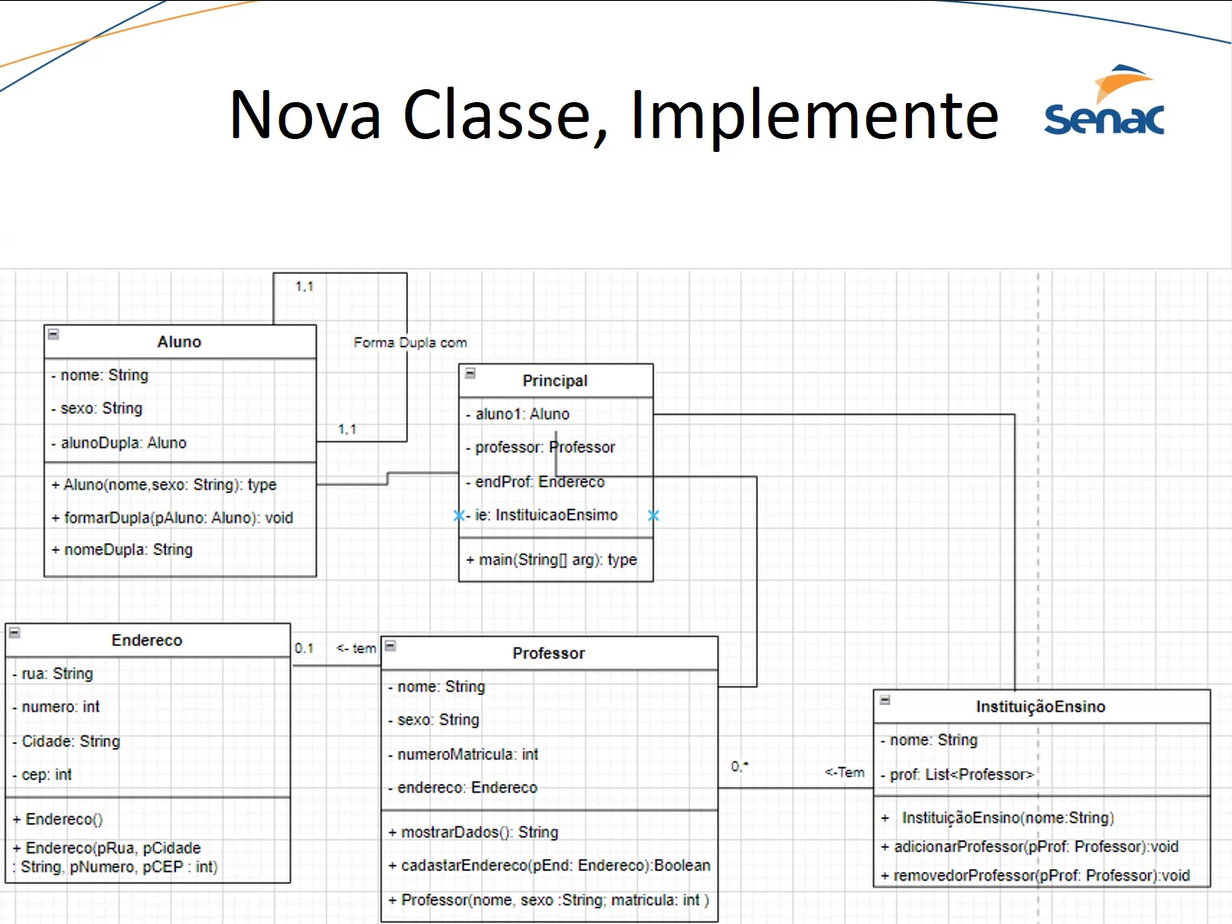
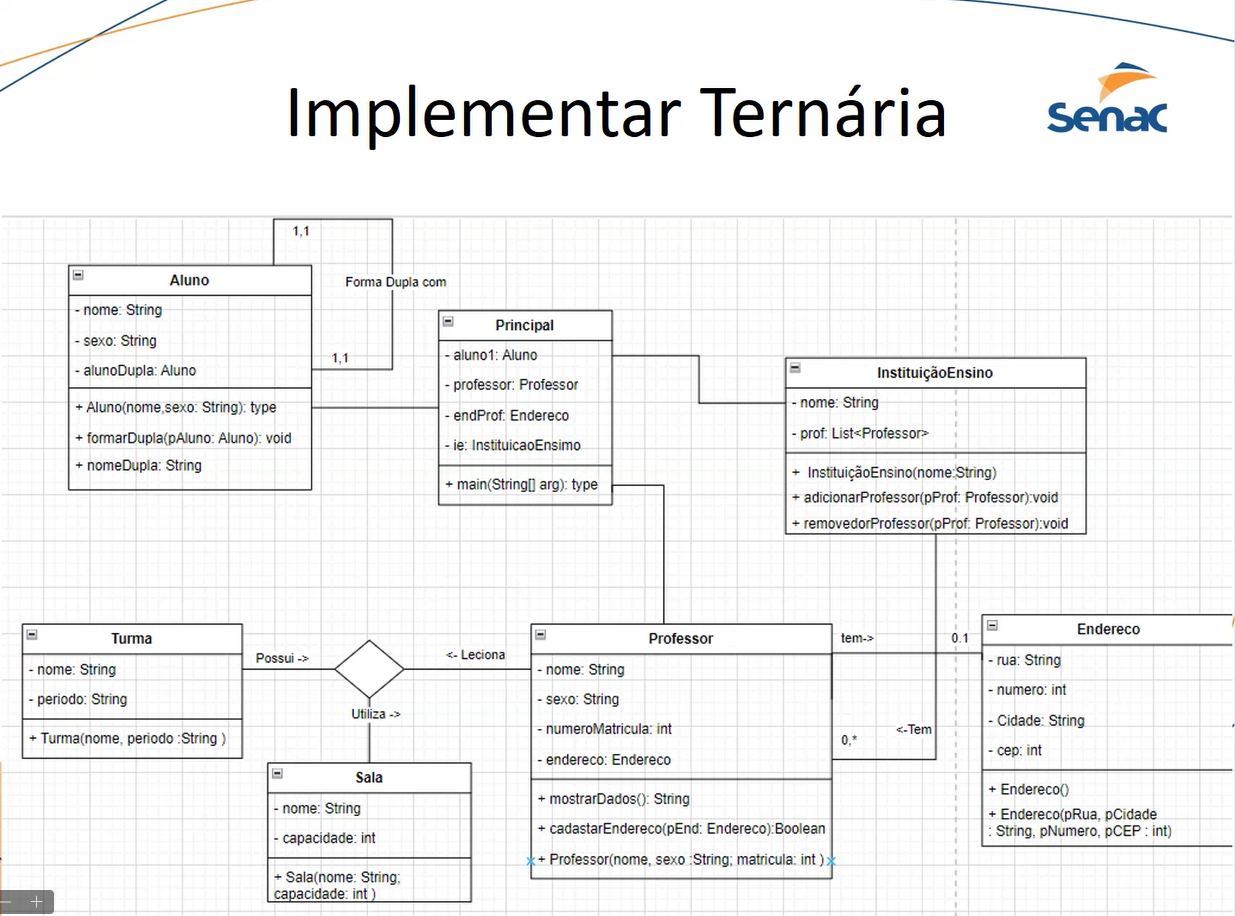
implementado novas classes ternária

diff --git a/atividade/Services/ProfessorService.cs b/atividade/Services/ProfessorService.cs
@@ -5,27 +5,29 @@ internal class ProfessorService
 {
     public static ProfessorModel Cadastrar()
     {
-        var nome = ConsoleExtension.WriteAndRead("Nome");
-        var sexo = ConsoleExtension.WriteAndRead("Sexo");
-        var numeroMatricula = int.Parse(ConsoleExtension.WriteAndRead("Numero da matricula"));
+        string nome = ConsoleExtension.WriteAndRead("Nome");
+        string sexo = ConsoleExtension.WriteAndRead("Sexo");
+        int numeroMatricula = int.Parse(ConsoleExtension.WriteAndRead("Numero da matricula"));
 
-        var option = ConsoleExtension.WriteAndRead("Deseja cadastrar o endereço?\n 1 - SIM\n 2 - NÃO");
+        string option = ConsoleExtension.WriteAndRead("Deseja cadastrar o endereço?\n 1 - SIM\n 2 - NÃO");
 
         ProfessorModel professor = new(nome, sexo, numeroMatricula);
 
         if (option == "1")
+        {
             CadastrarEndereco(professor);
+        }
 
         return professor;
     }
 
     private static void CadastrarEndereco(ProfessorModel professor)
     {
-        var rua = ConsoleExtension.WriteAndRead("rua");
-        var numero = int.Parse(ConsoleExtension.WriteAndRead("numero"));
-        var cidade = ConsoleExtension.WriteAndRead("cidade");
-        var cep = ConsoleExtension.WriteAndRead("CEP");
+        string rua = ConsoleExtension.WriteAndRead("rua");
+        int numero = int.Parse(ConsoleExtension.WriteAndRead("numero"));
+        string cidade = ConsoleExtension.WriteAndRead("cidade");
+        string cep = ConsoleExtension.WriteAndRead("CEP");
 
-        professor.CadastrarEndereco(new EnderecoModel(rua, numero, cidade, cep));
+        _ = professor.CadastrarEndereco(new EnderecoModel(rua, numero, cidade, cep));
     }
 }

diff --git a/atividade/Services/AlunoService.cs b/atividade/Services/AlunoService.cs
@@ -7,13 +7,15 @@ internal class AlunoService
     {
         do
         {
-            var nome = ConsoleExtension.WriteAndRead("Nome");
-            var sexo = ConsoleExtension.WriteAndRead("Sexo");
+            string nome = ConsoleExtension.WriteAndRead("Nome");
+            string sexo = ConsoleExtension.WriteAndRead("Sexo");
             AlunoModel aluno = new(nome, sexo);
 
-            var result = FormarDupla(aluno, alunosCadastrados);
+            bool result = FormarDupla(aluno, alunosCadastrados);
             if (result)
+            {
                 return aluno;
+            }
 
             ConsoleExtension.Write("Dupla não é permitida, tente novamente", ConsoleColor.Yellow);
         } while (true);
@@ -21,11 +23,11 @@ internal class AlunoService
 
     private static bool FormarDupla(AlunoModel alunoPrincipal, List<AlunoModel> alunosCadastrados)
     {
-        var nome = ConsoleExtension.WriteAndRead("Nome da dupla");
-        var sexo = ConsoleExtension.WriteAndRead("Sexo da dupla");
+        string nome = ConsoleExtension.WriteAndRead("Nome da dupla");
+        string sexo = ConsoleExtension.WriteAndRead("Sexo da dupla");
         AlunoModel aluno = new(nome, sexo);
 
-        var duplaFormada = alunosCadastrados.Find(x => x.AlunoDupla != null && x.AlunoDupla.Nome == nome);
+        AlunoModel? duplaFormada = alunosCadastrados.Find(x => x.AlunoDupla != null && x.AlunoDupla.Nome == nome);
         if (duplaFormada != null)
         {
             Console.WriteLine($"{duplaFormada.Nome} tem dupla com {duplaFormada.AlunoDupla.Nome}. Tente novamente", ConsoleColor.Yellow);

diff --git a/atividade/Program.cs b/atividade/Program.cs
@@ -4,19 +4,20 @@ using atividade.Services;
 
 FakeDatabase.InstituicaoEnsino = new InstituicaoEnsinoModel("SENAC");
 
-bool rodar = true;
 do
 {
     try
     {
-        rodar = Menu();
+        bool rodar = Menu();
+        if (rodar == false)
+            break;
     }
     catch (Exception ex)
     {
         ConsoleExtension.Write(ex.Message, ConsoleColor.Red);
         throw;
     }
-} while (rodar);
+} while (true);
 
 
 bool Menu()
@@ -32,7 +33,7 @@ bool Menu()
     ConsoleExtension.Write("INSTITUIÇÃO DE ENSINO");
     ConsoleExtension.Write("5 - Adicionar Professor");
     ConsoleExtension.Write("6 - Remover Professor");
-    var option = int.Parse(ConsoleExtension.Read());
+    int option = int.Parse(ConsoleExtension.Read());
 
     switch (option)
     {
@@ -66,7 +67,7 @@ bool Menu()
 void VerProfessores()
 {
     ConsoleExtension.Clear();
-    foreach (var p in FakeDatabase.Professores)
+    foreach (ProfessorModel p in FakeDatabase.Professores)
     {
         ConsoleExtension.Write(p.MostrarDados());
     }
@@ -75,7 +76,7 @@ void VerProfessores()
 void verAlunos()
 {
     ConsoleExtension.Clear();
-    foreach (var a in FakeDatabase.Alunos)
+    foreach (AlunoModel a in FakeDatabase.Alunos)
     {
         ConsoleExtension.Write(a.ToString());
     }

diff --git a/atividade/Services/InstituicaoEnsinoService.cs b/atividade/Services/InstituicaoEnsinoService.cs
@@ -1,23 +1,31 @@
-namespace atividade.Services;
+using atividade.Models;
+
+namespace atividade.Services;
 internal class InstituicaoEnsinoService
 {
     public static void AdicionarProfessor(string nome)
     {
-        var professor = FakeDatabase.Professores.Find(x => x.Nome == nome);
+        ProfessorModel? professor = FakeDatabase.Professores.Find(x => x.Nome == nome);
         if (professor is null)
+        {
             ConsoleExtension.Write("Professor não encontrado", ConsoleColor.Yellow);
-
+        }
         else
+        {
             FakeDatabase.InstituicaoEnsino.AdicionarProfessor(professor);
+        }
     }
 
     public static void RemoverProfessor(string nome)
     {
-        var professor = FakeDatabase.Professores.Find(x => x.Nome == nome);
+        ProfessorModel? professor = FakeDatabase.Professores.Find(x => x.Nome == nome);
         if (professor is null)
+        {
             ConsoleExtension.Write("Professor não encontrado", ConsoleColor.Yellow);
-
+        }
         else
+        {
             FakeDatabase.InstituicaoEnsino.RemoverProfessor(professor);
+        }
     }
 }

diff --git a/atividade/FakeDatabase.cs b/atividade/FakeDatabase.cs
@@ -3,20 +3,35 @@
 namespace atividade;
 internal class FakeDatabase
 {
-    public static List<ProfessorModel> Professores = new List<ProfessorModel>()
+    public static List<ProfessorModel> Professores = new()
     {
         new ProfessorModel("Alan", "M", 3)
         {
-            Endereco = new EnderecoModel("Bolivia", 78, "Blumenau", "78524354")
+            Endereco = new ("Bolivia", 78, "Blumenau", "78524354")
         }
     };
 
-    public static List<AlunoModel> Alunos = new List<AlunoModel>()
+    public static List<AlunoModel> Alunos = new()
     {
          new("Victor", "M")
          {
              AlunoDupla = new("Valdiclei", "M")
          }
+    };
+
+    public static List<TurmaModel> Turmas = new()
+    {
+        new("ADS 2º FASE", "Noturno")
+    };
+
+    public static List<SalaModel> Salas = new()
+    {
+        new("Sala 201", 60)
+    };
+
+    public static List<AulaModel> Aulas = new()
+    {
+        new(Salas.ElementAt(0),Turmas.ElementAt(0), Professores.ElementAt(0))
     };
 
     public static InstituicaoEnsinoModel InstituicaoEnsino;

diff --git a/atividade/Services/TurmaService.cs b/atividade/Services/TurmaService.cs
@@ -1,0 +1,28 @@
+using atividade.Models;
+
+namespace atividade.Services;
+internal class TurmaService
+{
+    public static TurmaModel Cadastrar()
+    {
+        do
+        {
+            string nome = ConsoleExtension.WriteAndRead("Nome");
+            string periodo = ConsoleExtension.WriteAndRead("Periodo");
+
+            if (string.IsNullOrEmpty(nome) || string.IsNullOrEmpty(periodo))
+            {
+                ConsoleExtension.Write("Nome e periodo são obrigatórios", ConsoleColor.Yellow);
+            }
+            else
+            {
+                return new TurmaModel(nome, periodo);
+            }
+        } while (true);
+    }
+
+    public static void Ver(TurmaModel turma)
+    {
+        ConsoleExtension.Write(turma.ToString());
+    }
+}

diff --git a/atividade/Services/SalaService.cs b/atividade/Services/SalaService.cs
@@ -1,0 +1,27 @@
+using atividade.Models;
+
+namespace atividade.Services;
+internal class SalaService
+{
+    public static SalaModel Cadastrar()
+    {
+        do
+        {
+            string nome = ConsoleExtension.WriteAndRead("Nome");
+            int capacidade = int.Parse(ConsoleExtension.WriteAndRead("Capacidade"));
+            SalaModel sala = new(nome, capacidade);
+
+            if (capacidade > 0 && string.IsNullOrEmpty(nome) == false)
+            {
+                return sala;
+            }
+
+            ConsoleExtension.Write("Nome deve ser válido e capacidade maior do que 0", ConsoleColor.Yellow);
+        } while (true);
+    }
+
+    public static void Ver(SalaModel sala)
+    {
+        ConsoleExtension.Write(sala.ToString());
+    }
+}

diff --git a/atividade/ConsoleExtension.cs b/atividade/ConsoleExtension.cs
@@ -12,11 +12,11 @@ internal static class ConsoleExtension
         do
         {
             Console.Write("DIGITE: ");
-            var text = Console.ReadLine();
+            string? text = Console.ReadLine();
 
             if (string.IsNullOrEmpty(text))
                 Write("Digite algo válido", ConsoleColor.Red);
-
+            
             else
                 return text;
         } while (true);
@@ -27,9 +27,10 @@ internal static class ConsoleExtension
         Console.ForegroundColor = color;
         if (uppercase)
             Console.WriteLine(message.ToUpper());
-
+        
         else
             Console.WriteLine(message);
+
         Console.ForegroundColor = ConsoleColor.White;
     }
 

diff --git a/atividade/Services/AulaService.cs b/atividade/Services/AulaService.cs
@@ -1,0 +1,21 @@
+using atividade.Models;
+
+namespace atividade.Services;
+internal class AulaService
+{
+    public static AulaModel Criar()
+    {
+        SalaModel sala = SalaService.Cadastrar();
+        TurmaModel turma = TurmaService.Cadastrar();
+        ProfessorModel professor = ProfessorService.Cadastrar();
+
+        AulaModel aula = new(sala, turma, professor);
+        ConsoleExtension.Write("Aula criada com sucesso", ConsoleColor.Green);
+        return aula;
+    }
+
+    public static void Ver(AulaModel aula)
+    {
+        ConsoleExtension.Write(aula.ToString());
+    }
+}

diff --git a/atividade/Models/AulaModel.cs b/atividade/Models/AulaModel.cs
@@ -1,0 +1,19 @@
+namespace atividade.Models;
+internal class AulaModel
+{
+    public SalaModel Sala { get; set; }
+    public TurmaModel Turma { get; set; }
+    public ProfessorModel Professor { get; set; }
+
+    public AulaModel(SalaModel sala, TurmaModel turma, ProfessorModel professor)
+    {
+        Sala = sala;
+        Turma = turma;
+        Professor = professor;
+    }
+
+    public override string ToString()
+    {
+        return $"Sala: {Sala.Nome} - Turma: {Turma.Nome} - Período: {Turma.Periodo} - Professor: {Professor.Nome}";
+    }
+}

diff --git a/atividade/Models/ProfessorModel.cs b/atividade/Models/ProfessorModel.cs
@@ -17,7 +17,7 @@ internal class ProfessorModel
     {
         if (Endereco != null)
         {
-            var endereco = $"Cidade: {Endereco.Cidade} - Rua: {Endereco.Rua} - N°{Endereco.Numero} - CEP: {Endereco.CEP}";
+            string endereco = $"Cidade: {Endereco.Cidade} - Rua: {Endereco.Rua} - N°{Endereco.Numero} - CEP: {Endereco.CEP}";
 
             return $"Meu nome é {Nome}, tenho o sexo {Sexo}, meu número de matricula é {NumeroMatricula} e meu endereço é {endereco}";
         }

diff --git a/atividade/Models/SalaModel.cs b/atividade/Models/SalaModel.cs
@@ -1,0 +1,17 @@
+namespace atividade.Models;
+internal class SalaModel
+{
+    public string Nome { get; set; }
+    public int Capacidade { get; set; }
+
+    public SalaModel(string nome, int capacidade)
+    {
+        Nome = nome;
+        Capacidade = capacidade;
+    }
+
+    public override string ToString()
+    {
+        return $"Nome: {Nome} - Capacidade: {Capacidade}";
+    }
+}
